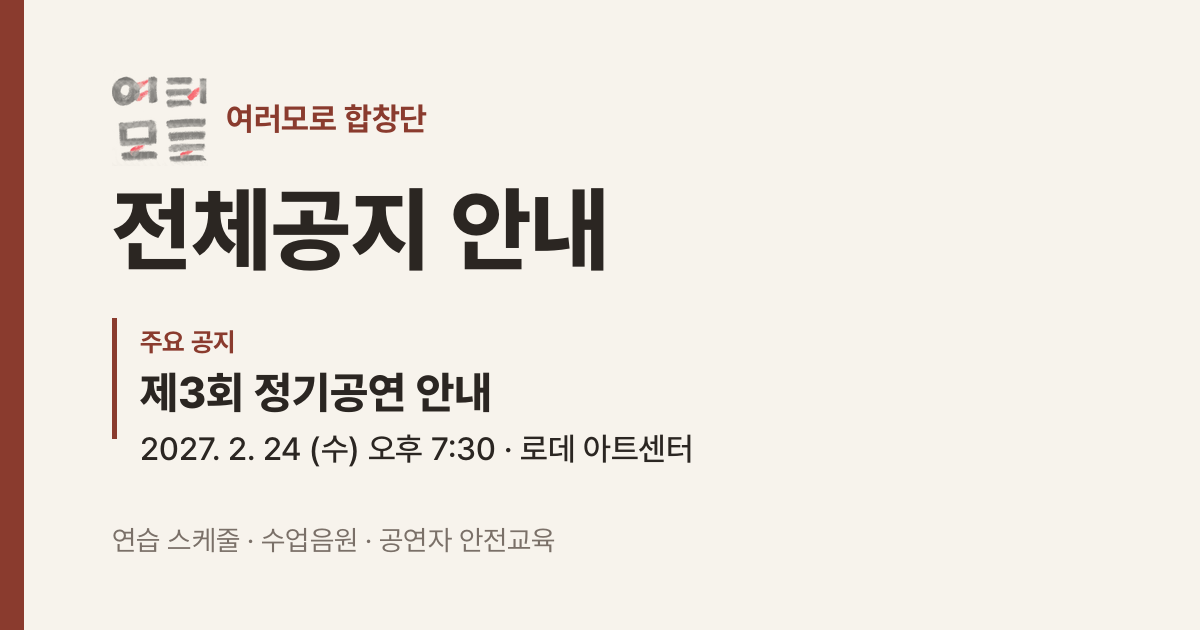
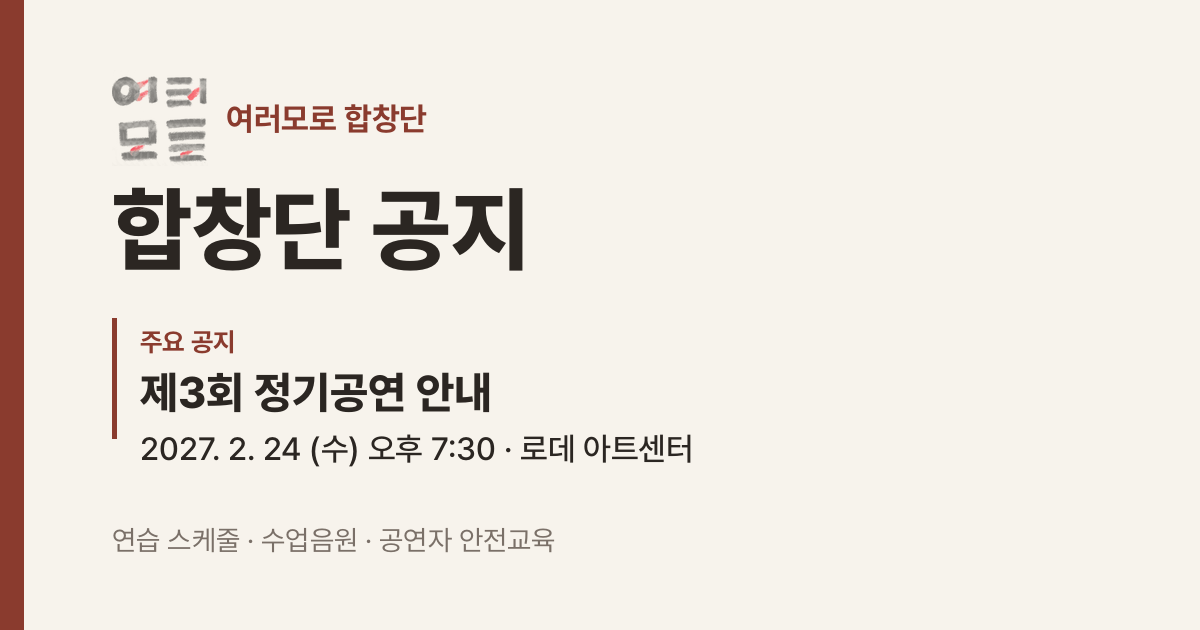
수정: description과 미리보기 이미지를 '합창단 공지'로 통일

Changed region(s): [[0.0925, 0.3016, 0.5242, 0.4524]]

diff --git a/telgrm/notice.html b/telgrm/notice.html
@@ -4,13 +4,13 @@
 <meta charset="UTF-8">
 <meta name="viewport" content="width=device-width, initial-scale=1">
 <title>여러모로 합창단 · 합창단 공지</title>
-<meta name="description" content="여러모로 합창단 전체공지 — 제3회 정기공연 2027년 2월 24일(수) 오후 7시 30분 · 로데 아트센터 — 연습 스케줄, 수업음원, 공연자 안전교육 안내">
+<meta name="description" content="여러모로 합창단 공지 — 제3회 정기공연 2027년 2월 24일(수) 오후 7시 30분 · 로데 아트센터 — 연습 스케줄, 수업음원, 공연자 안전교육 안내">
 <!-- 텔레그램·카카오톡 링크 미리보기용 -->
 <meta name="robots" content="noindex">
 <link rel="canonical" href="https://yeoleomolo.github.io/telgrm/notice.html">
 <meta property="og:type" content="website">
 <meta property="og:url" content="https://yeoleomolo.github.io/telgrm/notice.html">
-<meta property="og:image" content="https://yeoleomolo.github.io/telgrm/og-notice.png?v=2">
+<meta property="og:image" content="https://yeoleomolo.github.io/telgrm/og-notice.png?v=3">
 <meta property="og:image:width" content="1200">
 <meta property="og:image:height" content="630">
 <meta name="twitter:card" content="summary_large_image">
